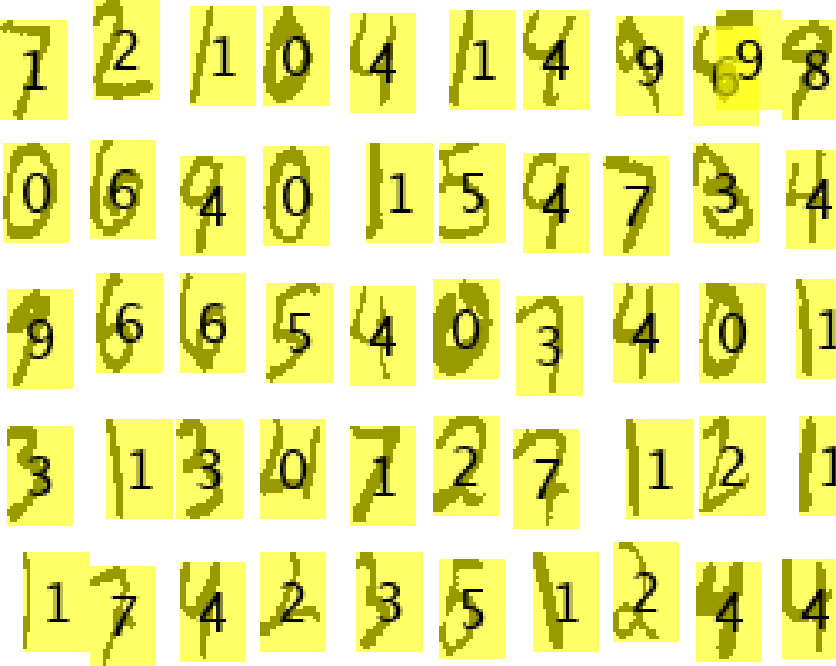
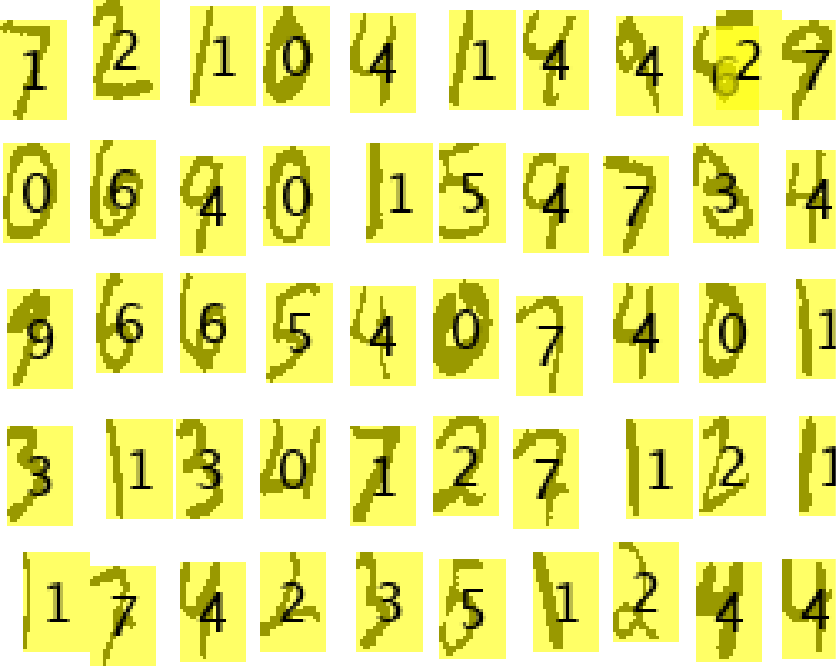
assign6: fixed ec.m so every image has same hyperparams

diff --git a/assgn6/matlab/ec.m b/assgn6/matlab/ec.m
@@ -1,22 +1,22 @@
-
-p1 = predict('../images/image1.JPG', 0.25, 3, 64);
-figure; imshow(p1);
-p2 = predict('../images/image2.JPG', 0.2, 3, 64);
-figure; imshow(p2);
-p3 = predict('../images/image3.png', 0.1, 3, 32);
-figure; imshow(p3);
-p4 = predict('../images/image4.jpg', 0.1, 0, 16);
+% Predict handwriting from images
+%[p1, ~] = predict('../images/image1.JPG', 64);
+%figure; imshow(p1);
+%[p2, ~] = predict('../images/image2.JPG', 64);
+%figure; imshow(p2);
+%[p3, ~] = predict('../images/image3.png', 32);
+%figure; imshow(p3);
+[p4, ~] = predict('../images/image4.jpg', 16);
 figure; imshow(p4);
 
 
-function [out_img] = predict(path, pad, dilate, fontsize)
+function [out_img, bboxes] = predict(path, fontsize)
 % predict takes in the image specified in path to predict handwritten digits.
 % Parameters:
-%  pad: how much to zero-pad the image before resize
-%  dilate: how much to dilate the image to make the digits thicker
+%  path: image path
 %  fontsize: how large to display the text in image
 % Returns:
 %  out_img: original image with prediction annotation.
+%  bboxes: bounding boxes for each digit
 
     %% Network defintion
     layers = get_lenet();
@@ -43,31 +43,44 @@ function [out_img] = predict(path, pad, dilate, fontsize)
        mc = min(c);
        [r, c] = size(bboxes{i});
 
+       % heuristics for how much to dilate, small bwratio => thin digit
+       bwratio = sum(bboxes{i}==0, 'all') / (r*c);
+       
        % remove noisy components
        if r < 5 && c < 5
            continue
        end
-
-       p = ceil(max([r c]) * pad);
-
-       %pad white
+       
+       % pad white
        if r > c
-          bboxes{i} = padarray(bboxes{i}, [p floor((r-c)/2)+p], 1);
+          bboxes{i} = padarray(bboxes{i}, [0 floor((r-c)/2)], 1);
        else
-          bboxes{i} = padarray(bboxes{i}, [floor((c-r)/2)+p p], 1); 
+          bboxes{i} = padarray(bboxes{i}, [floor((c-r)/2) 0], 1); 
        end
 
        % dilate if digit is thin
-       if dilate > 0
-            bboxes{i} = logical(1.-imdilate(1.-bboxes{i}, strel('sphere', dilate)));
+       if bwratio < 0.2
+            bboxes{i} = logical(1.-imdilate(1.-bboxes{i}, strel('sphere', 3)));
        end
-       % reshape
-       bboxes{i} = imresize(bboxes{i}, [28 28])';
+       
+       % reshape to (28-2*rs , 28-2*rs), in a way provide padding
+       % squeeze more if image is not square-ish => make it more square-ish
+       if max([r, c]) > 100 && (r/c-1) > 0.5
+           rs = 5;
+       else
+           if max([r, c]) > 100 
+             rs = 4; 
+           else % if original image too small => can't put it smaller
+             rs = 0;
+           end
+       end
+       
+       bboxes{i} = imresize(bboxes{i}, [28-2*rs 28-2*rs], 'nearest')';
+       bboxes{i} = padarray(bboxes{i}, [rs rs], 1);
        [~, P] = convnet_forward(params, layers, logical(1.-bboxes{i}(:)));
        [~, idx] = max(P);
 
        out_img = insertText(out_img, [mc mr], idx-1, 'FontSize', fontsize); 
-
     end
 
 end
